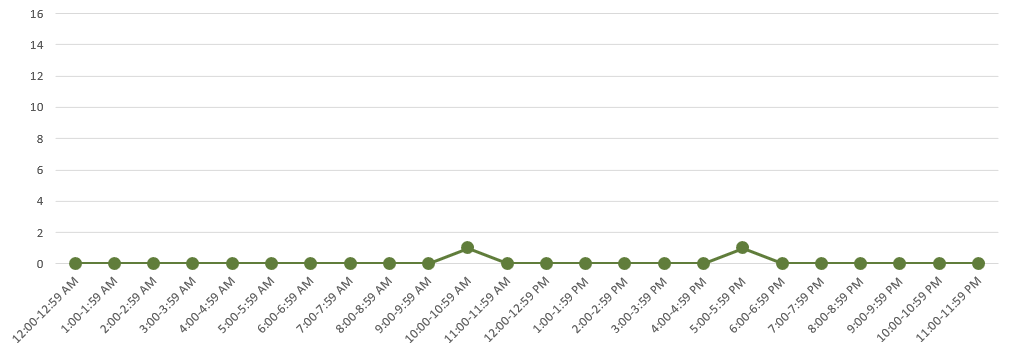
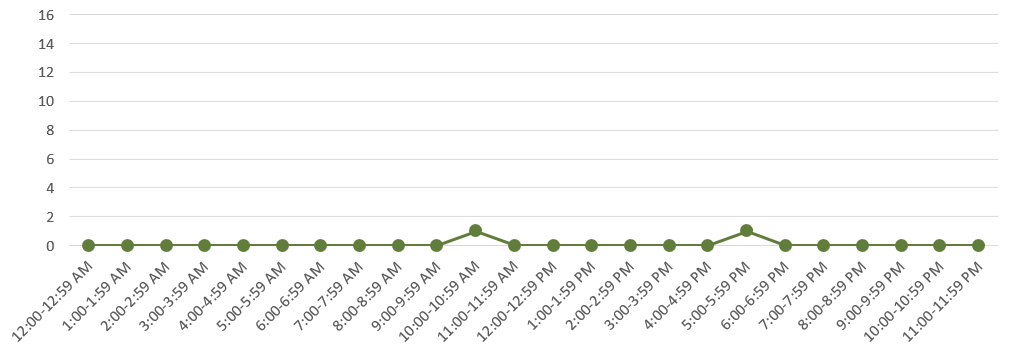
Fixed images

diff --git a/final586/email9.html b/final586/email9.html
@@ -956,16 +956,16 @@
 					<img class="totalEmailImg" src="Nov12_TotalEmails.png">
 				</div>
 				<div id="classEmails">
-					<img class="classEmailImg" src="Nov12_ClassEmails.png">
+					<img class="classEmailImg" src="Nov12_ClassEmails.PNG">
 				</div>
 				<div id="workEmails">
-					<img class="workEmailImg" src="Nov12_WorkEmails.png">
+					<img class="workEmailImg" src="Nov12_WorkEmails.PNG">
 				</div>
 				<div id="junkEmails">
-					<img class="junkEmailImg" src="Nov12_JunkEmails.png">
+					<img class="junkEmailImg" src="Nov12_JunkEmails.PNG">
 				</div>
 				<div id="otherEmails">
-					<img class="otherEmailImg" src="Nov12_OtherEmails.png">
+					<img class="otherEmailImg" src="Nov12_OtherEmails.PNG">
 				</div>
 			</div>
 			<div id="options">
